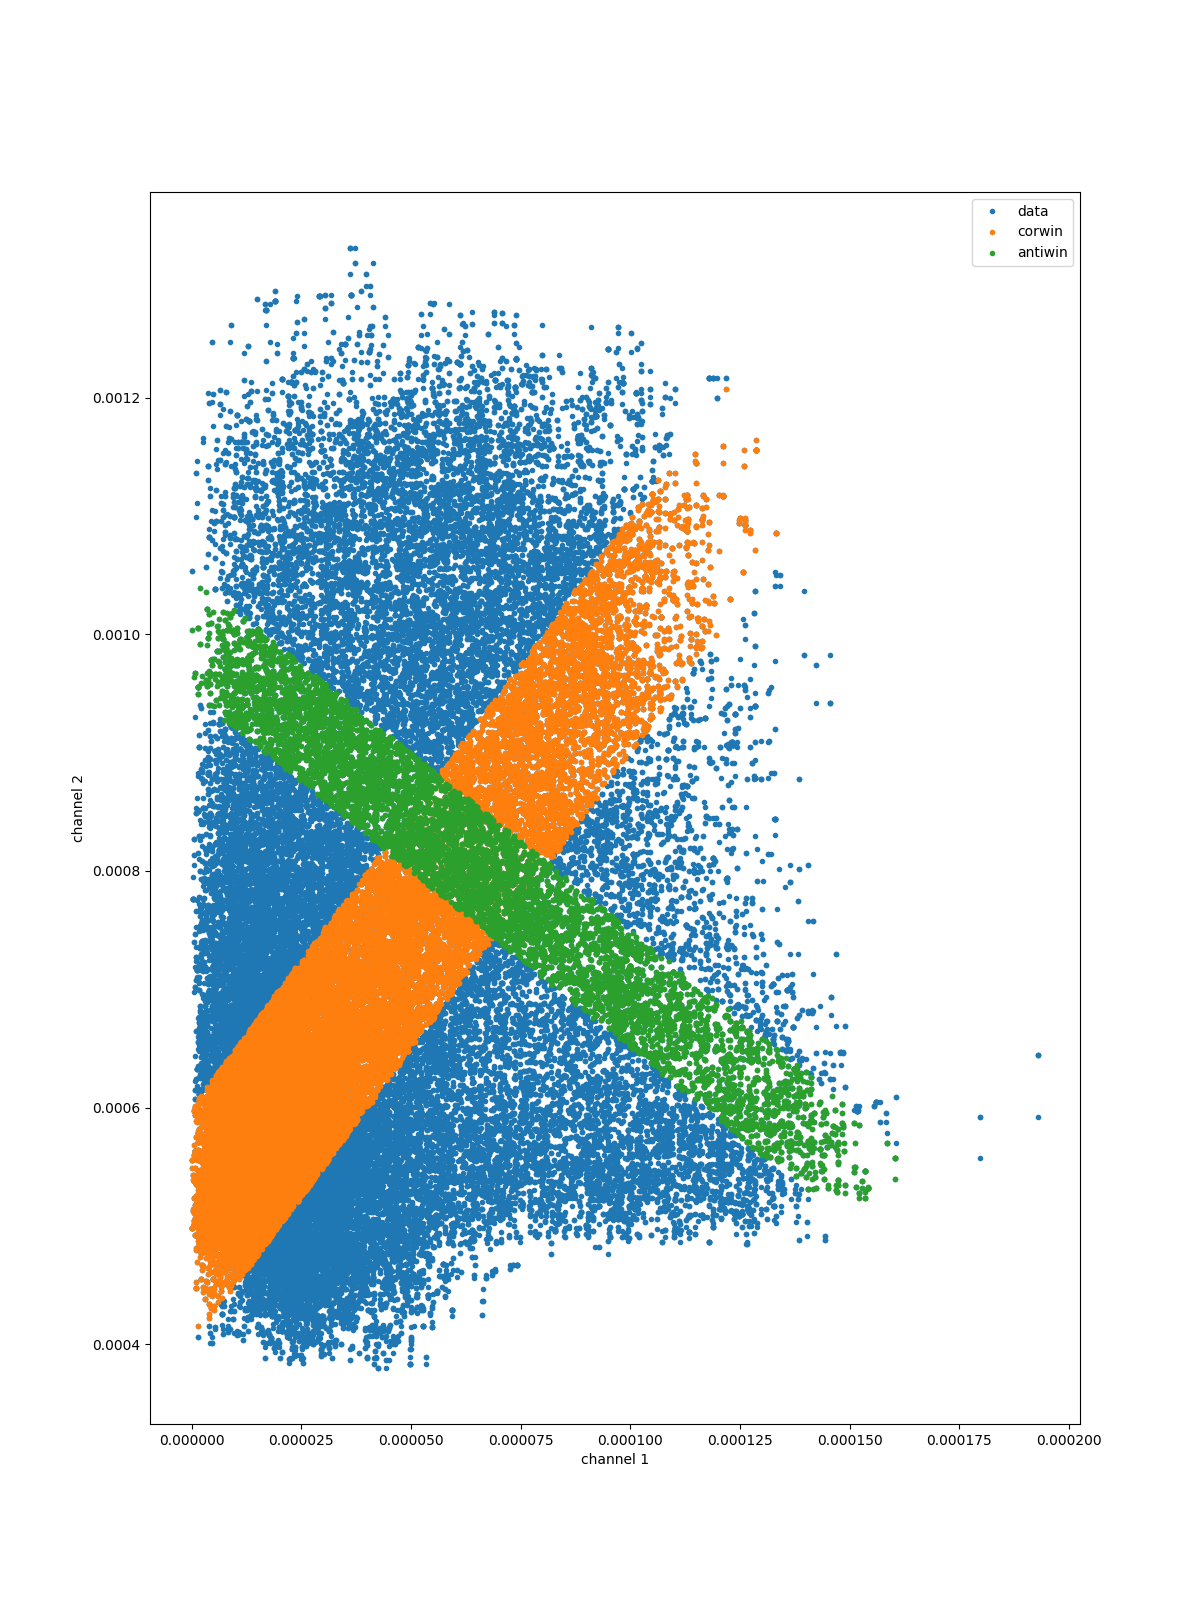
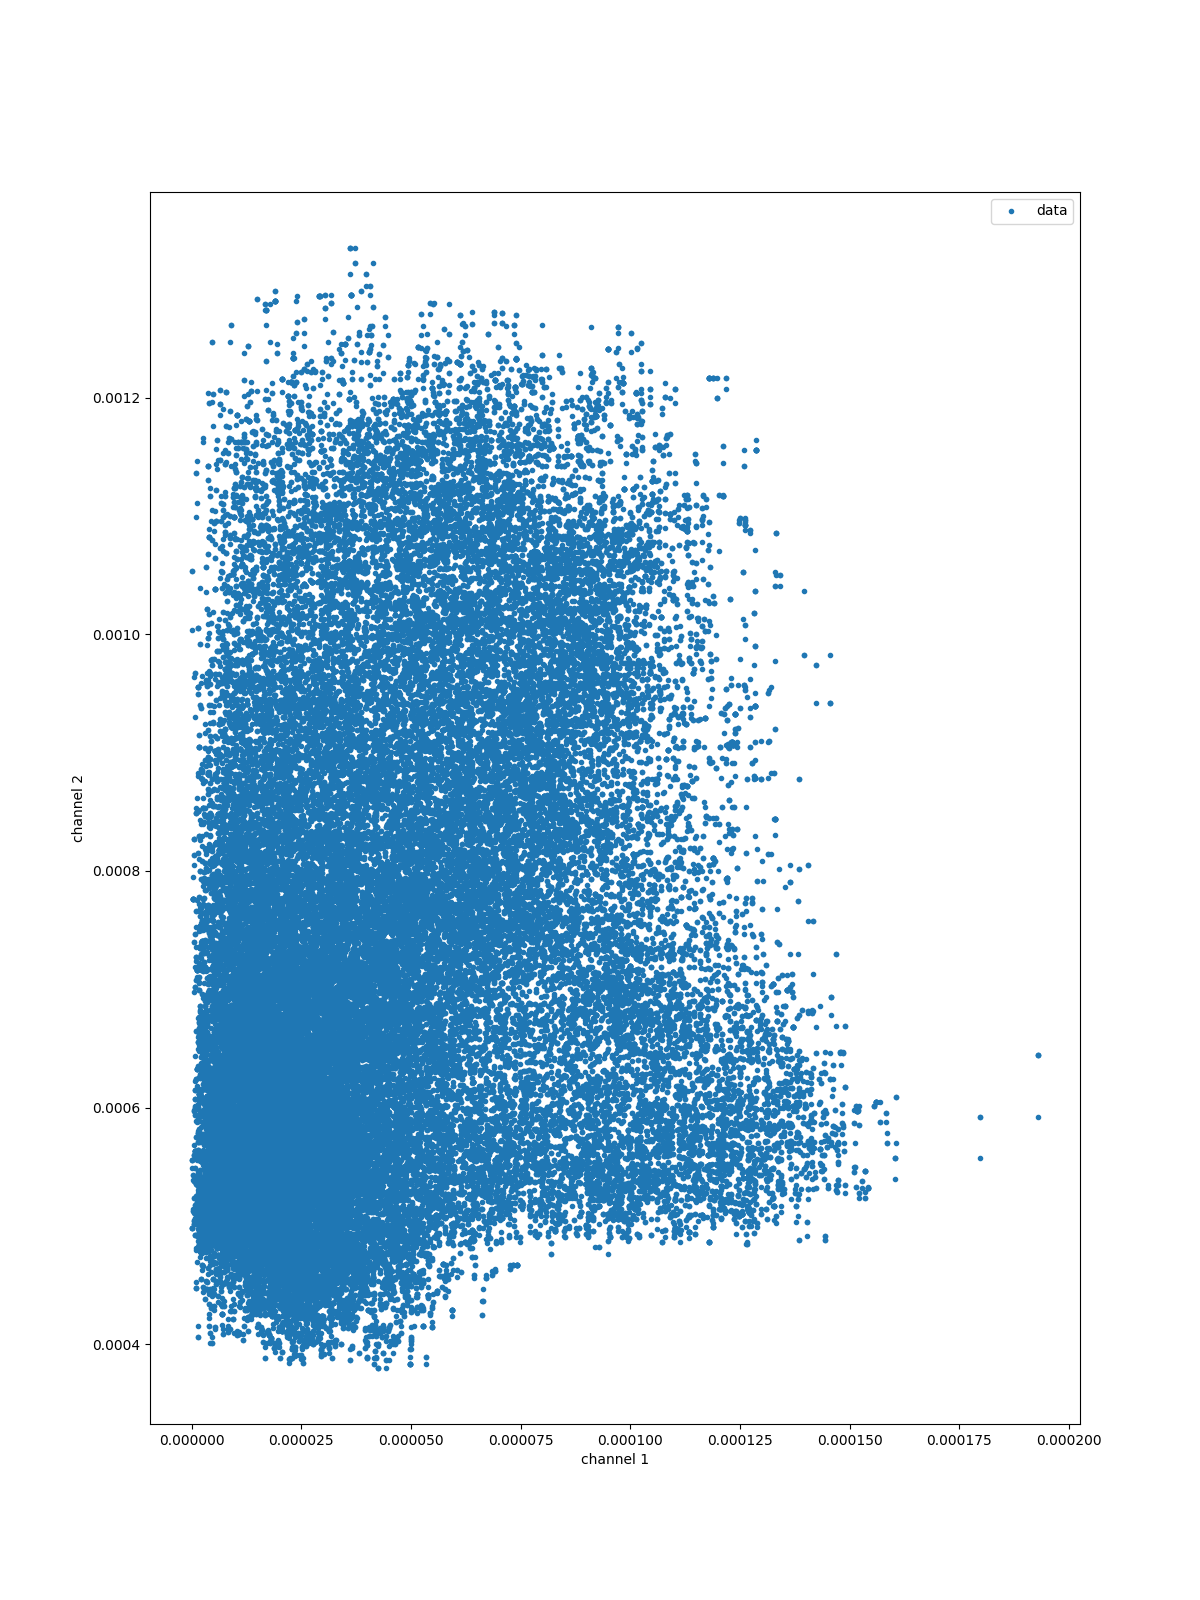
Shuba chat

Changed region(s): [[0.1542, 0.2812, 0.74, 0.8438], [0.8325, 0.125, 0.8942, 0.1562]]

diff --git a/src/extract_correlation.py b/src/extract_correlation.py
@@ -21,8 +21,8 @@ def main(fname):
     x = np.linspace(np.min(ch1),np.max(ch1),10)
     fig = plt.figure(figsize=(12,16))
     plt.plot(ch1,ch2,'.')
-    plt.plot(ch1[cinds],ch2[cinds],'.')
-    plt.plot(ch1[ainds],ch2[ainds],'.')
+    #plt.plot(ch1[cinds],ch2[cinds],'.')
+    #plt.plot(ch1[ainds],ch2[ainds],'.')
     plt.xlabel('channel 1')
     plt.ylabel('channel 2')
     plt.legend(['data','corwin','antiwin'])
@@ -51,11 +51,12 @@ def main(fname):
     plt.ylabel('signal')
     plt.savefig('./figures/sigVindex_correlated.png')
     iafig = plt.figure(figsize=(16,12))
-    plt.plot(np.squeeze(cinds),ch1[cinds],'.')
+    #plt.plot(np.squeeze(cinds),ch1[cinds],'.')
     plt.plot(np.squeeze(ainds),ch1[ainds],'.')
-    plt.plot(np.squeeze(cinds),ch2[cinds],'.')
+    #plt.plot(np.squeeze(cinds),ch2[cinds],'.')
     plt.plot(np.squeeze(ainds),ch2[ainds],'.')
-    plt.legend(['channel 1 corr','channel 1 anti','channel 2 corr','channel 2 anti'])
+    plt.legend(['channel 1 anti','channel 2 anti'])
+    #plt.legend(['channel 1 corr','channel 1 anti','channel 2 corr','channel 2 anti'])
     plt.xlabel('data index')
     plt.ylabel('signal')
     plt.savefig('./figures/sigVindex_corr_anti.png')
